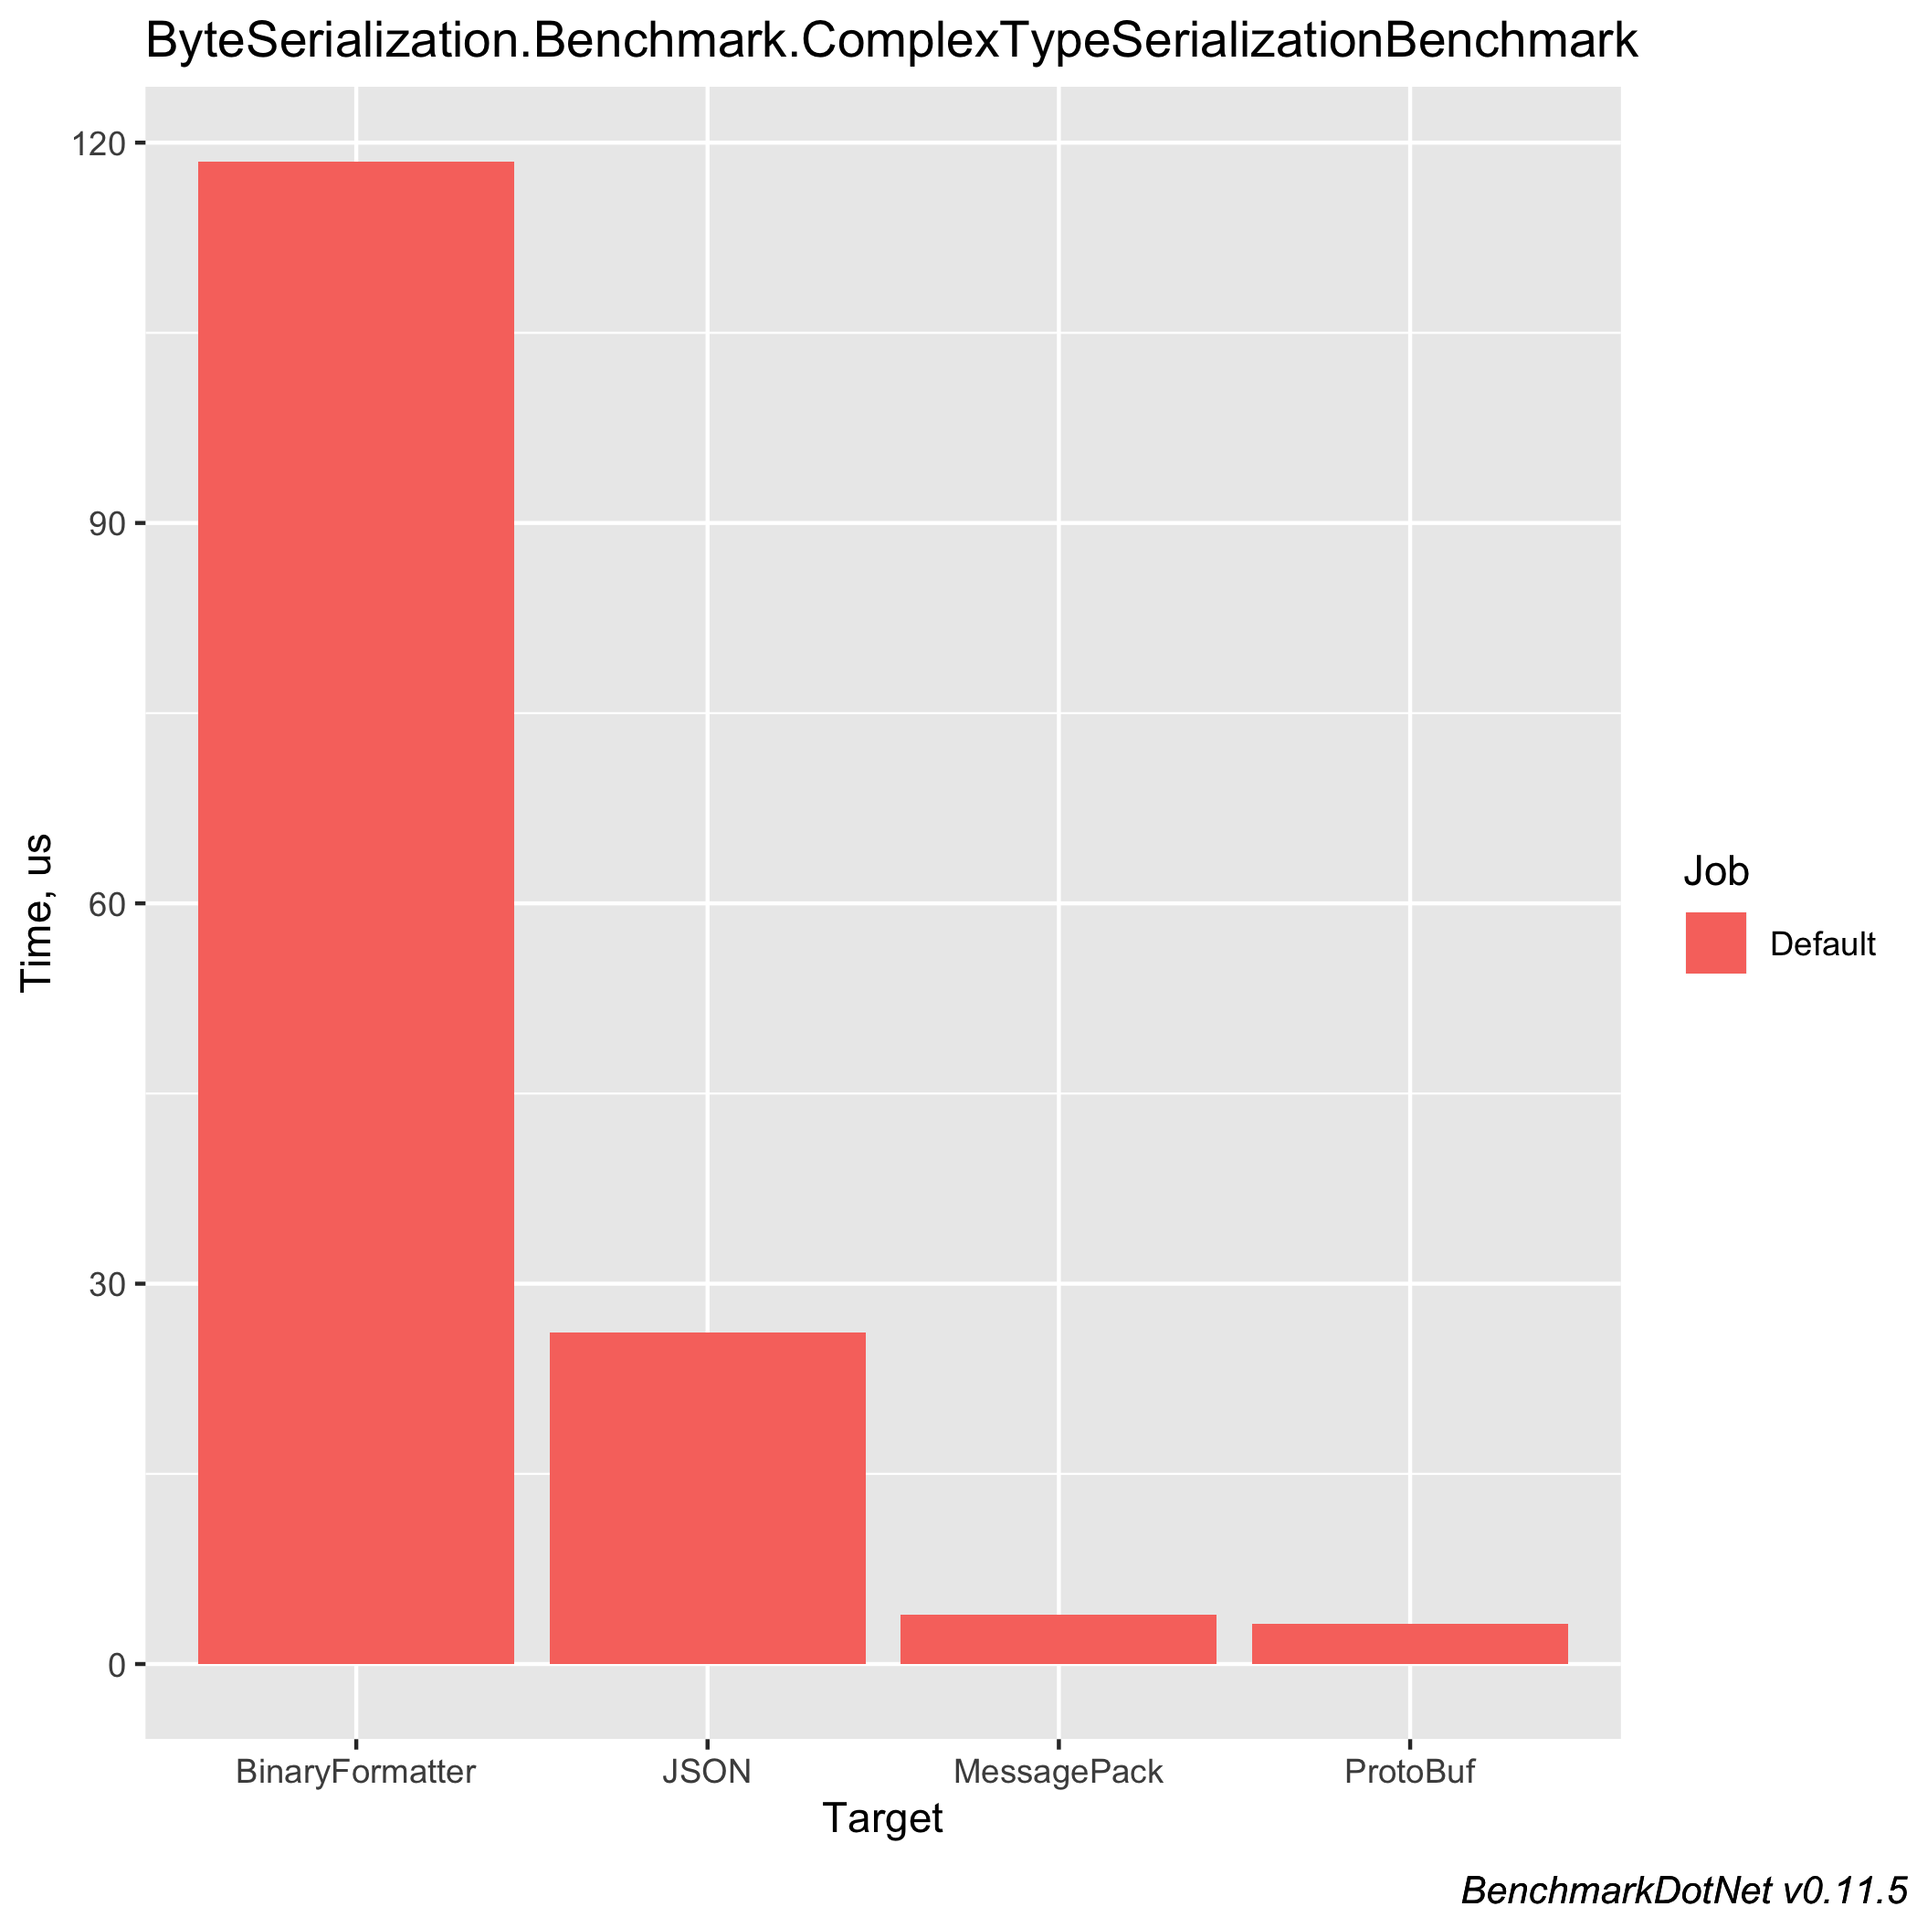
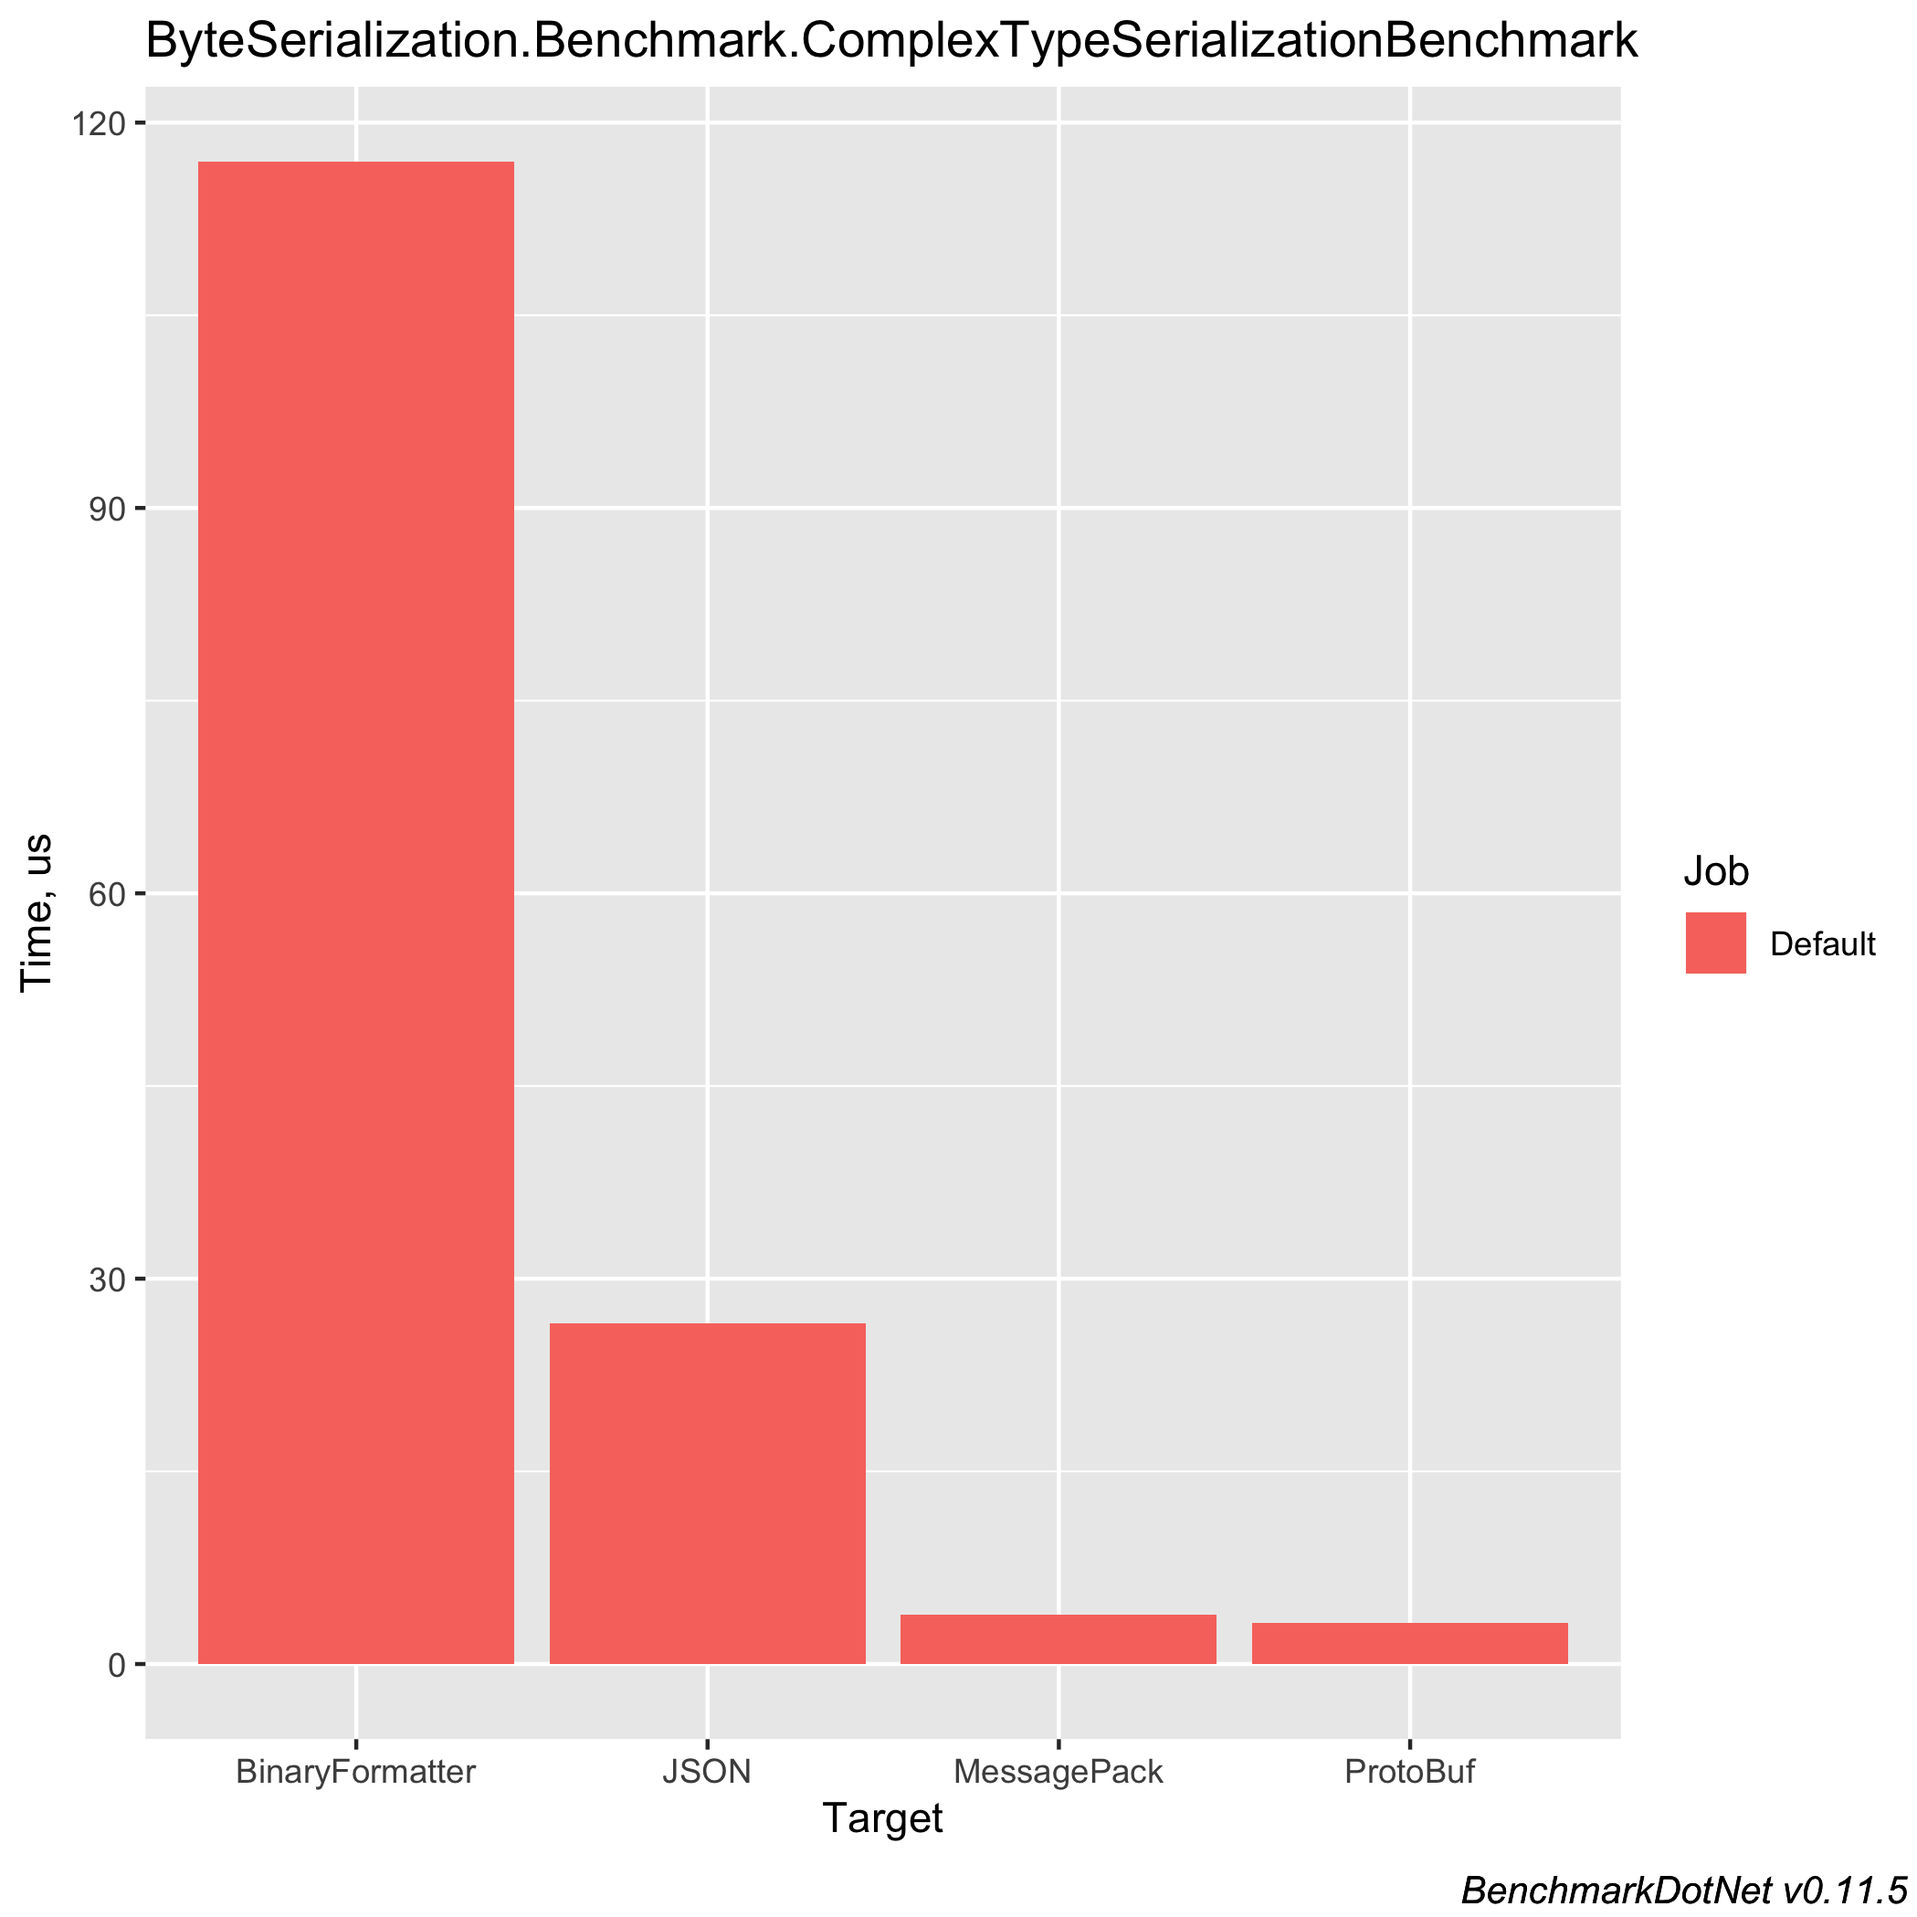
Update results

diff --git a/README-wip.md b/README-wip.md
@@ -43,7 +43,7 @@ When running the benchmark code on my machine, the following results are produce
 
 ### Benchmarking with `string`
 
-![String serialization - benchmark](./results-for-docs/StringBenchmark-barplot.png)
+![String serialization - benchmark](./results-for-docs/ByteSerialization.Benchmark.StringByteSerializationBenchmark-barplot.png)
 
 ``` ini
 
@@ -51,34 +51,24 @@ BenchmarkDotNet=v0.11.5, OS=macOS Mojave 10.14.5 (18F203) [Darwin 18.6.0]
 Intel Core i7-8850H CPU 2.60GHz (Coffee Lake), 1 CPU, 12 logical and 6 physical cores
 .NET Core SDK=2.2.300
   [Host]     : .NET Core 2.2.5 (CoreCLR 4.6.27617.05, CoreFX 4.6.27618.01), 64bit RyuJIT
-  Job-XRVZPW : .NET Core 2.2.5 (CoreCLR 4.6.27617.05, CoreFX 4.6.27618.01), 64bit RyuJIT
+  Job-UNMZYR : .NET Core 2.2.5 (CoreCLR 4.6.27617.05, CoreFX 4.6.27618.01), 64bit RyuJIT
 
 Runtime=Core  Toolchain=netcoreapp2.1  
 
 ```
 |          Method | StringLength |        Mean |      Error |     StdDev | Ratio | Rank |  Gen 0 | Gen 1 | Gen 2 | Allocated |
 |---------------- |------------- |------------:|-----------:|-----------:|------:|-----:|-------:|------:|------:|----------:|
-|         Marshal |           50 |    28.89 ns |  0.5974 ns |  0.8941 ns |  0.03 |    1 | 0.0271 |     - |     - |     128 B |
-|     MessagePack |           50 |    88.20 ns |  0.5547 ns |  0.4917 ns |  0.08 |    2 | 0.0169 |     - |     - |      80 B |
-|            JSON |           50 |   388.26 ns |  1.8003 ns |  1.5959 ns |  0.34 |    3 | 0.3085 |     - |     - |    1456 B |
-|        ProtoBuf |           50 |   700.38 ns |  4.0060 ns |  3.7472 ns |  0.61 |    4 | 0.1354 |     - |     - |     640 B |
-| BinaryFormatter |           50 | 1,148.06 ns | 10.0069 ns |  9.3605 ns |  1.00 |    5 | 0.5913 |     - |     - |    2792 B |
-|                 |              |             |            |            |       |      |        |       |       |           |
-|         Marshal |          100 |    33.28 ns |  0.7370 ns |  1.1689 ns |  0.03 |    1 | 0.0474 |     - |     - |     224 B |
-|     MessagePack |          100 |    98.11 ns |  0.6833 ns |  0.6392 ns |  0.08 |    2 | 0.0271 |     - |     - |     128 B |
-|            JSON |          100 |   452.06 ns |  3.2072 ns |  2.8431 ns |  0.38 |    3 | 0.3390 |     - |     - |    1600 B |
-|        ProtoBuf |          100 |   747.12 ns |  5.1617 ns |  4.8283 ns |  0.62 |    4 | 0.1450 |     - |     - |     688 B |
-| BinaryFormatter |          100 | 1,203.48 ns | 17.4695 ns | 16.3410 ns |  1.00 |    5 | 0.6008 |     - |     - |    2840 B |
-|                 |              |             |            |            |       |      |        |       |       |           |
-|         Marshal |          200 |    44.44 ns |  0.7150 ns |  0.6688 ns |  0.03 |    1 | 0.0898 |     - |     - |     424 B |
-|     MessagePack |          200 |   130.57 ns |  0.8277 ns |  0.7337 ns |  0.10 |    2 | 0.0491 |     - |     - |     232 B |
-|            JSON |          200 |   617.95 ns | 10.2881 ns |  9.6235 ns |  0.47 |    3 | 0.4034 |     - |     - |    1904 B |
-|        ProtoBuf |          200 |   797.10 ns |  5.6800 ns |  5.0351 ns |  0.61 |    4 | 0.1669 |     - |     - |     792 B |
-| BinaryFormatter |          200 | 1,305.44 ns | 11.8983 ns | 10.5476 ns |  1.00 |    5 | 0.6237 |     - |     - |    2944 B |
+|         Marshal |          100 |    32.24 ns |  0.6299 ns |  0.5892 ns |  0.03 |    1 | 0.0474 |     - |     - |     224 B |
+|            UTF8 |          100 |    74.14 ns |  0.2456 ns |  0.2177 ns |  0.06 |    2 | 0.0271 |     - |     - |     128 B |
+|     MessagePack |          100 |   100.74 ns |  0.4471 ns |  0.4183 ns |  0.08 |    3 | 0.0271 |     - |     - |     128 B |
+|         Unicode |          100 |   118.63 ns |  0.7008 ns |  0.6212 ns |  0.10 |    4 | 0.0474 |     - |     - |     224 B |
+|            JSON |          100 |   487.11 ns |  2.8129 ns |  2.4936 ns |  0.41 |    5 | 0.3386 |     - |     - |    1600 B |
+|        ProtoBuf |          100 |   737.57 ns |  6.1722 ns |  5.4715 ns |  0.62 |    6 | 0.1450 |     - |     - |     688 B |
+| BinaryFormatter |          100 | 1,188.71 ns | 12.7686 ns | 11.3190 ns |  1.00 |    7 | 0.6008 |     - |     - |    2840 B |
 
 
 ### Benchmarking with complex types
-![Complex type serialization - benchmark](./results-for-docs/ComplexTypeBenchmark-barplot.png)
+![Complex type serialization - benchmark](./results-for-docs/ByteSerialization.Benchmark.ComplexTypeSerializationBenchmark-barplot.png)
 
 ``` ini
 
@@ -86,17 +76,18 @@ BenchmarkDotNet=v0.11.5, OS=macOS Mojave 10.14.5 (18F203) [Darwin 18.6.0]
 Intel Core i7-8850H CPU 2.60GHz (Coffee Lake), 1 CPU, 12 logical and 6 physical cores
 .NET Core SDK=2.2.300
   [Host]     : .NET Core 2.2.5 (CoreCLR 4.6.27617.05, CoreFX 4.6.27618.01), 64bit RyuJIT
-  Job-XRVZPW : .NET Core 2.2.5 (CoreCLR 4.6.27617.05, CoreFX 4.6.27618.01), 64bit RyuJIT
+  Job-UNMZYR : .NET Core 2.2.5 (CoreCLR 4.6.27617.05, CoreFX 4.6.27618.01), 64bit RyuJIT
 
 Runtime=Core  Toolchain=netcoreapp2.1  
 
 ```
 |          Method |       Mean |     Error |    StdDev | Ratio | Rank |  Gen 0 | Gen 1 | Gen 2 | Allocated |
 |---------------- |-----------:|----------:|----------:|------:|-----:|-------:|------:|------:|----------:|
-|        ProtoBuf |   3.165 μs | 0.0325 μs | 0.0288 μs |  0.03 |    1 | 0.4959 |     - |     - |   2.29 KB |
-|     MessagePack |   3.922 μs | 0.0264 μs | 0.0247 μs |  0.03 |    2 | 0.3662 |     - |     - |    1.7 KB |
-|            JSON |  26.035 μs | 0.2748 μs | 0.2436 μs |  0.21 |    3 | 1.8616 |     - |     - |   8.66 KB |
-| BinaryFormatter | 122.529 μs | 1.5204 μs | 1.2696 μs |  1.00 |    4 | 9.0332 |     - |     - |  41.67 KB |
+|        ProtoBuf |   3.188 μs | 0.0123 μs | 0.0115 μs |  0.03 |    1 | 0.4959 |     - |     - |   2.29 KB |
+|     MessagePack |   3.859 μs | 0.0321 μs | 0.0300 μs |  0.03 |    2 | 0.3662 |     - |     - |    1.7 KB |
+|            JSON |  26.522 μs | 0.2068 μs | 0.1833 μs |  0.23 |    3 | 1.8616 |     - |     - |   8.66 KB |
+| BinaryFormatter | 116.973 μs | 0.4336 μs | 0.3621 μs |  1.00 |    4 | 9.0332 |     - |     - |  41.67 KB |
+
 
 ### Results summary
 

diff --git a/results-for-docs/ByteSerialization.Benchmark.ComplexTypeSerializationBenchmark-report-github.md b/results-for-docs/ByteSerialization.Benchmark.ComplexTypeSerializationBenchmark-report-github.md
@@ -4,14 +4,14 @@ BenchmarkDotNet=v0.11.5, OS=macOS Mojave 10.14.5 (18F203) [Darwin 18.6.0]
 Intel Core i7-8850H CPU 2.60GHz (Coffee Lake), 1 CPU, 12 logical and 6 physical cores
 .NET Core SDK=2.2.300
   [Host]     : .NET Core 2.2.5 (CoreCLR 4.6.27617.05, CoreFX 4.6.27618.01), 64bit RyuJIT
-  Job-MQIKOP : .NET Core 2.2.5 (CoreCLR 4.6.27617.05, CoreFX 4.6.27618.01), 64bit RyuJIT
+  Job-UNMZYR : .NET Core 2.2.5 (CoreCLR 4.6.27617.05, CoreFX 4.6.27618.01), 64bit RyuJIT
 
 Runtime=Core  Toolchain=netcoreapp2.1  
 
 ```
 |          Method |       Mean |     Error |    StdDev | Ratio | Rank |  Gen 0 | Gen 1 | Gen 2 | Allocated |
 |---------------- |-----------:|----------:|----------:|------:|-----:|-------:|------:|------:|----------:|
-|        ProtoBuf |   3.143 μs | 0.0264 μs | 0.0234 μs |  0.03 |    1 | 0.4959 |     - |     - |   2.29 KB |
-|     MessagePack |   3.923 μs | 0.0160 μs | 0.0150 μs |  0.03 |    2 | 0.3662 |     - |     - |    1.7 KB |
-|            JSON |  26.130 μs | 0.1795 μs | 0.1679 μs |  0.22 |    3 | 1.8616 |     - |     - |   8.66 KB |
-| BinaryFormatter | 118.513 μs | 0.6378 μs | 0.5966 μs |  1.00 |    4 | 9.0332 |     - |     - |  41.67 KB |
+|        ProtoBuf |   3.188 μs | 0.0123 μs | 0.0115 μs |  0.03 |    1 | 0.4959 |     - |     - |   2.29 KB |
+|     MessagePack |   3.859 μs | 0.0321 μs | 0.0300 μs |  0.03 |    2 | 0.3662 |     - |     - |    1.7 KB |
+|            JSON |  26.522 μs | 0.2068 μs | 0.1833 μs |  0.23 |    3 | 1.8616 |     - |     - |   8.66 KB |
+| BinaryFormatter | 116.973 μs | 0.4336 μs | 0.3621 μs |  1.00 |    4 | 9.0332 |     - |     - |  41.67 KB |

diff --git a/results-for-docs/ByteSerialization.Benchmark.StringByteSerializationBenchmark-report-github.md b/results-for-docs/ByteSerialization.Benchmark.StringByteSerializationBenchmark-report-github.md
@@ -1,0 +1,20 @@
+``` ini
+
+BenchmarkDotNet=v0.11.5, OS=macOS Mojave 10.14.5 (18F203) [Darwin 18.6.0]
+Intel Core i7-8850H CPU 2.60GHz (Coffee Lake), 1 CPU, 12 logical and 6 physical cores
+.NET Core SDK=2.2.300
+  [Host]     : .NET Core 2.2.5 (CoreCLR 4.6.27617.05, CoreFX 4.6.27618.01), 64bit RyuJIT
+  Job-UNMZYR : .NET Core 2.2.5 (CoreCLR 4.6.27617.05, CoreFX 4.6.27618.01), 64bit RyuJIT
+
+Runtime=Core  Toolchain=netcoreapp2.1  
+
+```
+|          Method | StringLength |        Mean |      Error |     StdDev | Ratio | Rank |  Gen 0 | Gen 1 | Gen 2 | Allocated |
+|---------------- |------------- |------------:|-----------:|-----------:|------:|-----:|-------:|------:|------:|----------:|
+|         Marshal |          100 |    32.24 ns |  0.6299 ns |  0.5892 ns |  0.03 |    1 | 0.0474 |     - |     - |     224 B |
+|            UTF8 |          100 |    74.14 ns |  0.2456 ns |  0.2177 ns |  0.06 |    2 | 0.0271 |     - |     - |     128 B |
+|     MessagePack |          100 |   100.74 ns |  0.4471 ns |  0.4183 ns |  0.08 |    3 | 0.0271 |     - |     - |     128 B |
+|         Unicode |          100 |   118.63 ns |  0.7008 ns |  0.6212 ns |  0.10 |    4 | 0.0474 |     - |     - |     224 B |
+|            JSON |          100 |   487.11 ns |  2.8129 ns |  2.4936 ns |  0.41 |    5 | 0.3386 |     - |     - |    1600 B |
+|        ProtoBuf |          100 |   737.57 ns |  6.1722 ns |  5.4715 ns |  0.62 |    6 | 0.1450 |     - |     - |     688 B |
+| BinaryFormatter |          100 | 1,188.71 ns | 12.7686 ns | 11.3190 ns |  1.00 |    7 | 0.6008 |     - |     - |    2840 B |
